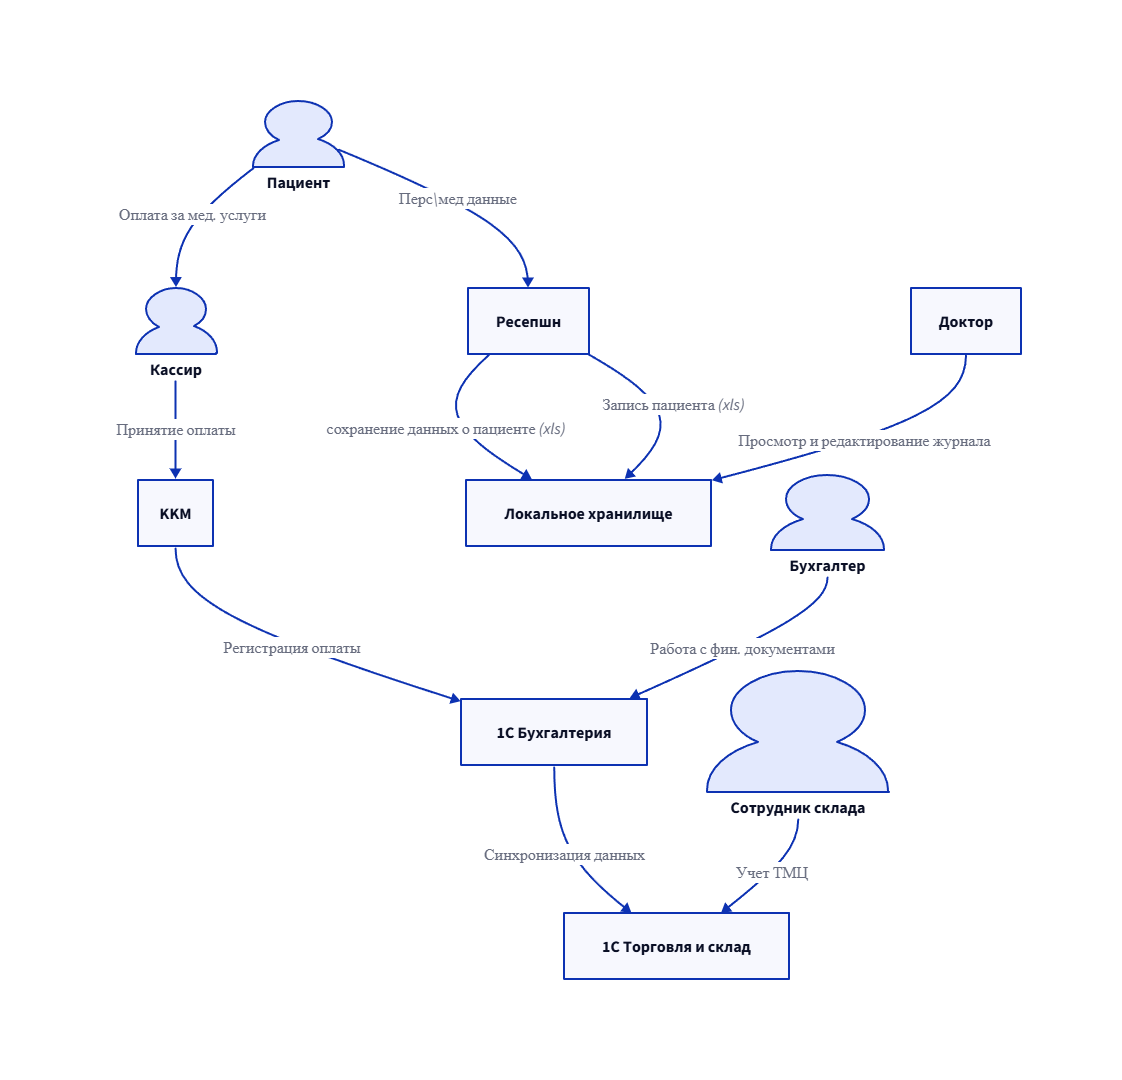
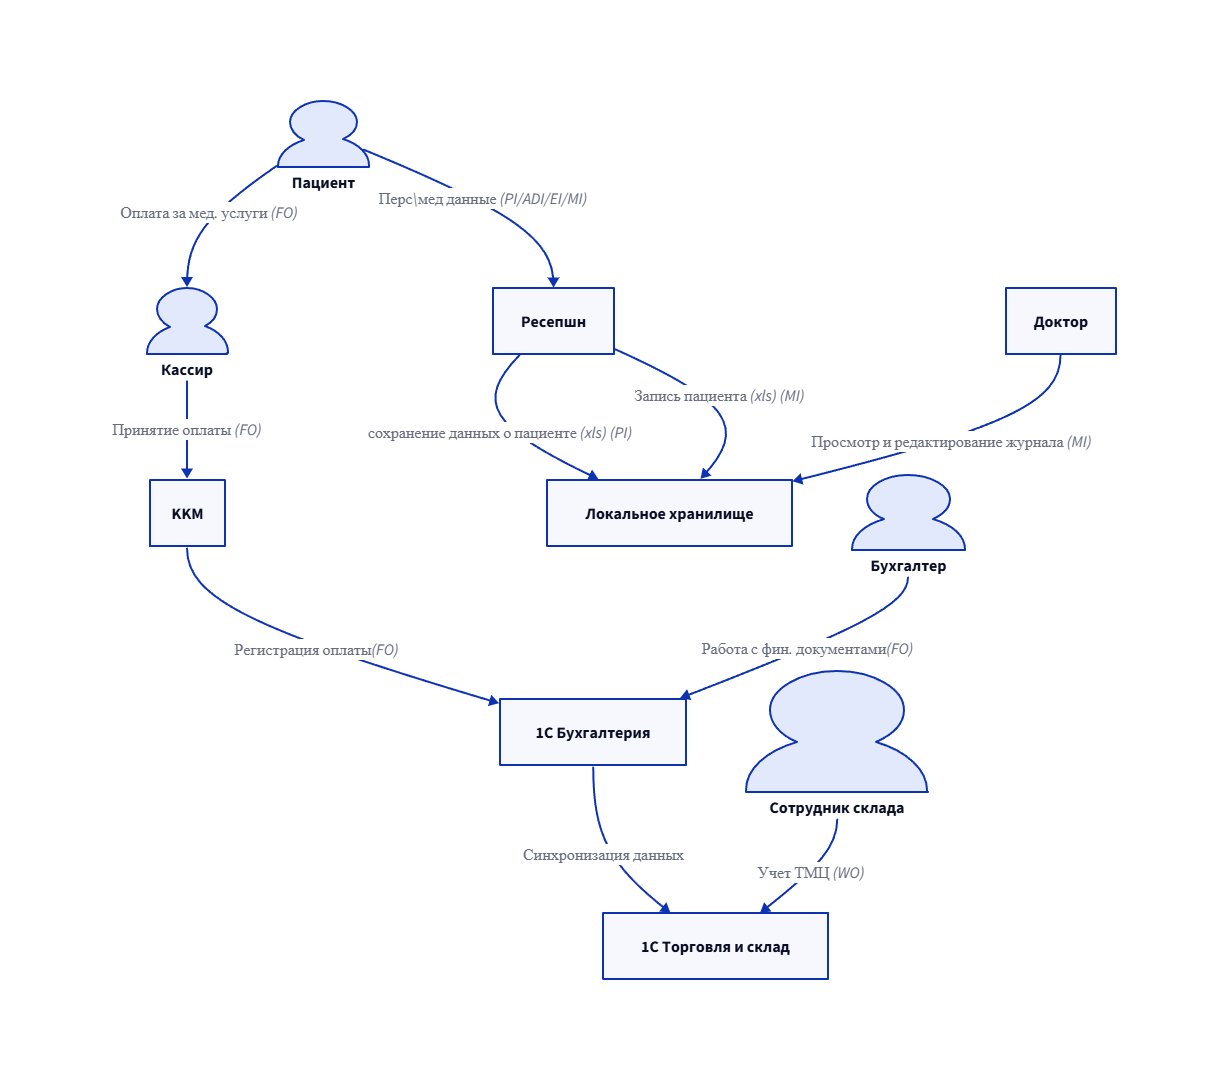
sprint10

diff --git a/Task1/УЛУЧШЕНИЯ.md b/Task1/УЛУЧШЕНИЯ.md
@@ -1,0 +1,21 @@
+# Улучшения
+
+## Защита данных
+1. Обфускация для проведения платежей, в случае если на стороне клиники будет реализован свой сервис по оплате платежей
+2. Скремблирование символов - для данных о пациенте/мед результатах анализа
+3. Использование статической маскировки - перед деплоем новых версий компонентов в продакшен.
+
+## Инфраструктурные
+1. Реализация ролевой модели
+2. использование шифрование траффика
+3. защита от DDOS
+4. сегмент TLS
+5. сегмент WAF
+
+## Тегирование
+1. ФИО, дата рождения - PI (Personal Information)
+2. Телефон, эл. почта - ADI (Additional Information)
+3. место учебы, прописка - EI (Extended Information)
+4. Хронические заболевания, проведенные операции,результаты анализов - MI (Medical Information)
+5. Финансовые операции(проведние платежей, расчет зп и др) - FO (Financial Operations)
+6. Операции ТМЦ - WO (Warehouse Operations)
